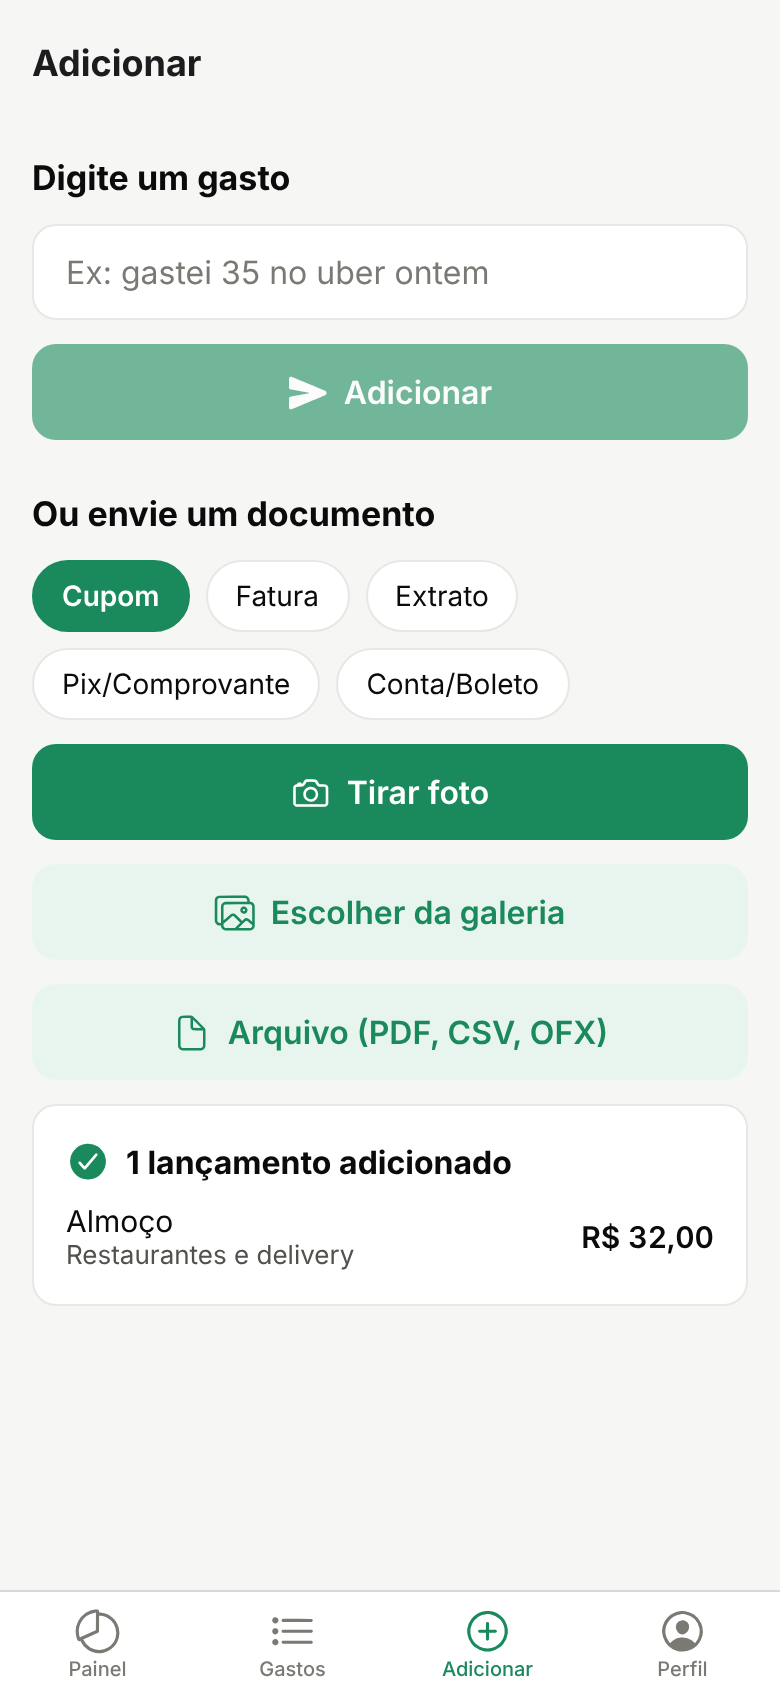
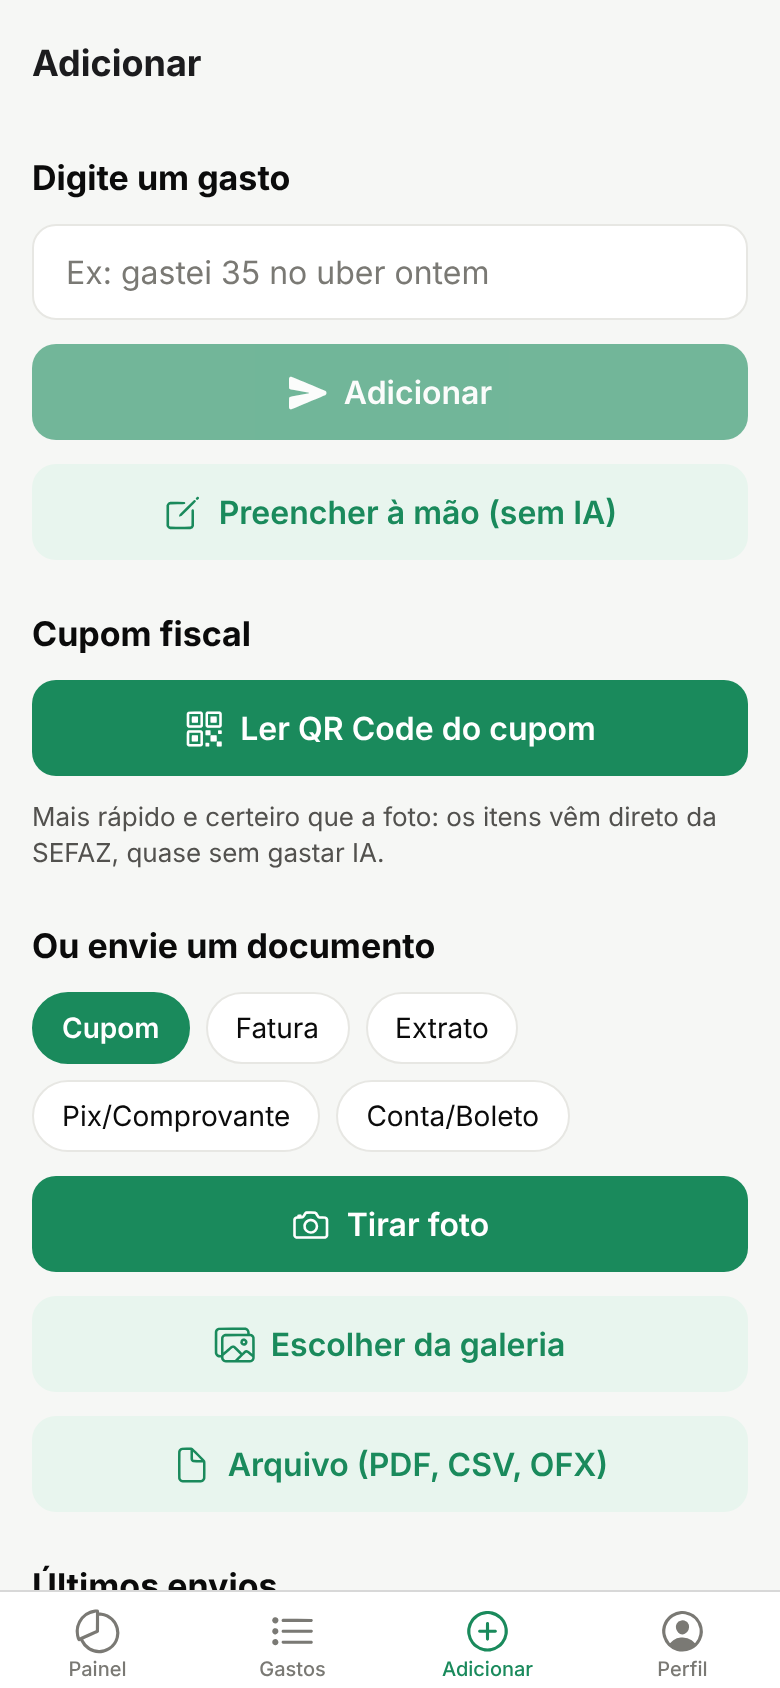
README: prints atualizados do app
Painel com alertas, Pergunte ao Bolso, adicionar com QR Code, inflação
pessoal, histórico de preço e cobranças recorrentes.

Claude-Session: https://claude.ai/code/session_01BN2ESG3kmCRLfmVBh9Atqc

diff --git a/README.md b/README.md
@@ -3,9 +3,14 @@
 Controle de gastos pessoais em que **a IA faz o trabalho chato**. Tire foto do cupom, envie o PDF da fatura ou o extrato do banco, ou só digite *"gastei 35 no uber ontem"*: o Bolso lê, separa as transações, categoriza e monta o painel do mês.
 
 <p align="center">
-  <img src="docs/painel.png" width="250" alt="Painel do mês com gastos por categoria" />
-  <img src="docs/gastos.png" width="250" alt="Lista de gastos com cupom conciliado com a fatura" />
-  <img src="docs/adicionar.png" width="250" alt="Tela de adicionar gasto por texto, foto ou arquivo" />
+  <img src="docs/painel.png" width="250" alt="Painel com alerta de cobrança em dobro, assinatura que aumentou e dicas do assistente" />
+  <img src="docs/chat.png" width="250" alt="Pergunte ao Bolso respondendo onde a pessoa mais gastou, quanto recebeu e o mês com mais gasto em mercado" />
+  <img src="docs/adicionar.png" width="250" alt="Tela de adicionar gasto por texto, QR Code do cupom, foto ou arquivo" />
+</p>
+<p align="center">
+  <img src="docs/precos.png" width="250" alt="Inflação pessoal e preço de cada produto, com o mercado mais barato" />
+  <img src="docs/produto.png" width="250" alt="Histórico de preço do café com gráfico e comparação entre mercados" />
+  <img src="docs/assinaturas.png" width="250" alt="Gastos por categoria e cobranças recorrentes com total por ano" />
 </p>
 
 ## O que ele faz
